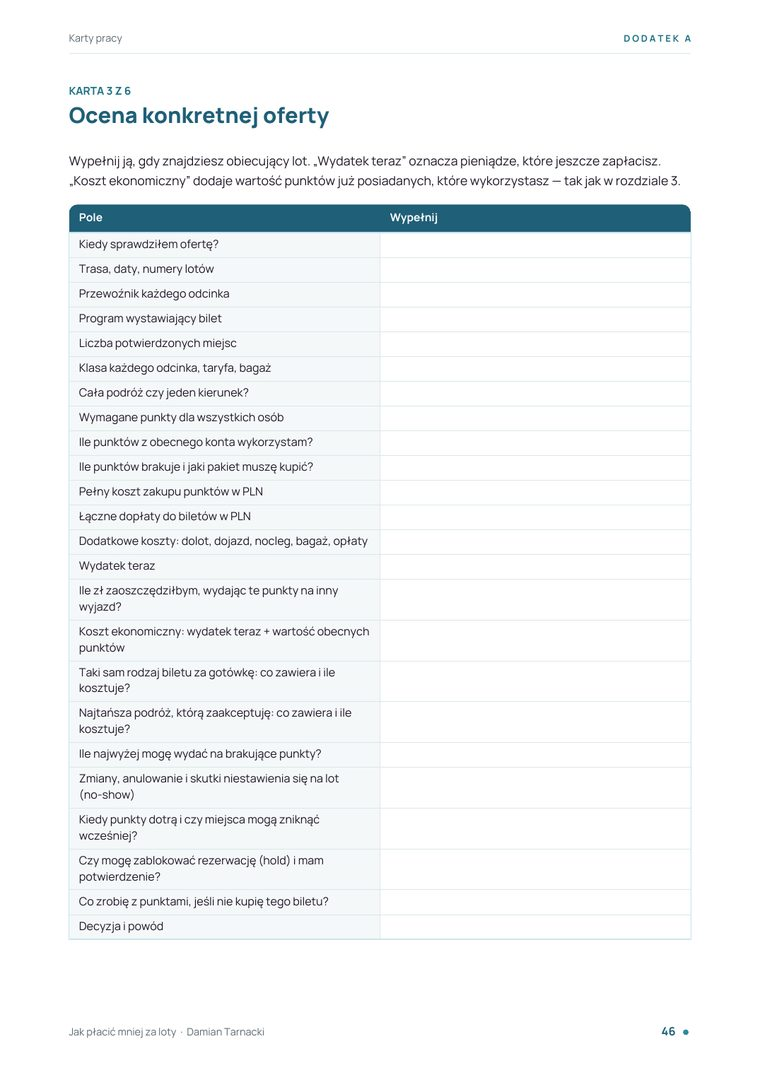
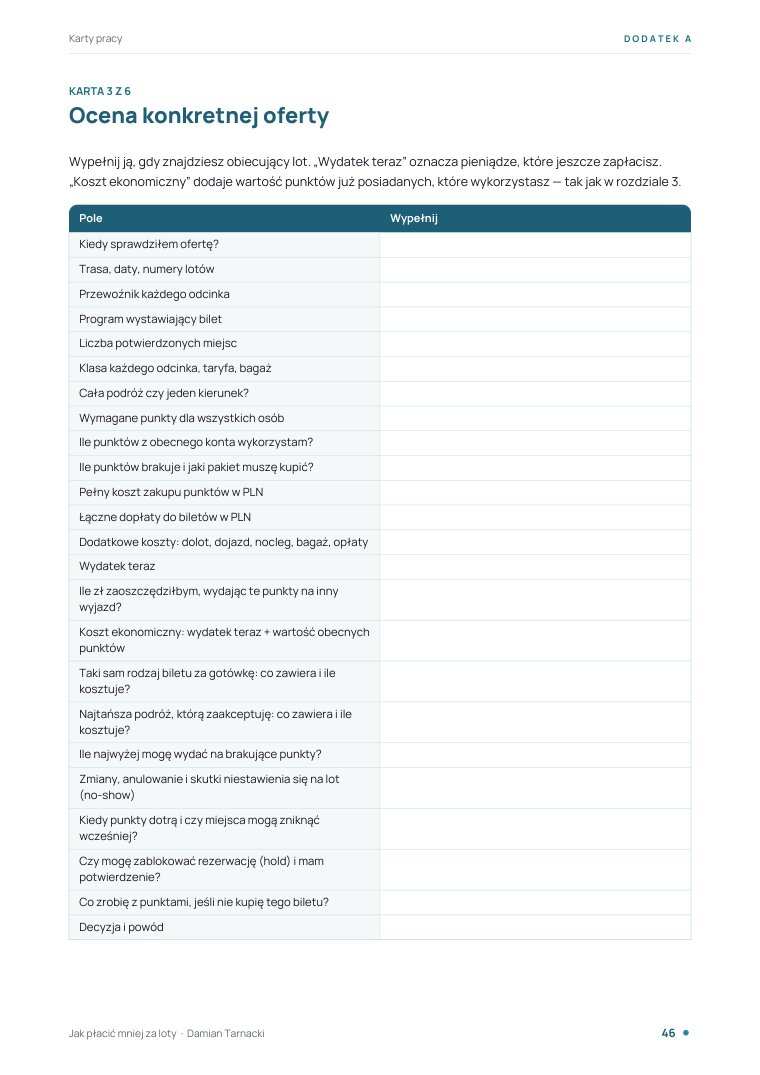
Strona ebooka: bilet z NajMILszego poniedziałku za 23 000 mil (#3)

diff --git a/travels/tansze-loty/index.html b/travels/tansze-loty/index.html
@@ -259,12 +259,14 @@ footer p{margin:0}
       <div>
         <span class="eyebrow">Prawdziwy przykład z rozdziału 3</span>
         <h2 style="margin-top:14px">Bilet za mile nie jest za darmo</h2>
-        <p>Przy bilecie za mile zwykle zostaje coś do zapłaty. W ebooku rozpisuję prawdziwe potwierdzenie biletu LOT Warszawa–San Francisco–Warszawa: każdy kod opłaty po polsku, z odnośnikiem do źródła.</p>
+        <p>Przy bilecie za mile zwykle zostaje coś do zapłaty. W ebooku rozpisuję prawdziwe potwierdzenie biletu LOT Warszawa–San Francisco–Warszawa, który kupiłem w promocji NajMILszy poniedziałek za 23 000 mil w obie strony: każdy kod opłaty po polsku, z odnośnikiem do źródła.</p>
+        <p>Takie promocje wymagają elastyczności. Okienka sprzedaży i terminy lotów bywają krótkie, a miejsc jest niewiele.</p>
         <p>Dzięki temu zanim zaczniesz zbierać, wiesz, ile naprawdę wydasz i czy dopłata za wygodniejszy fotel jest dla Ciebie warta swojej ceny.</p>
       </div>
       <div class="receipt" role="group" aria-label="Rozbicie dopłaty do biletu za mile">
         <h3>Potwierdzenie biletu · WAW–SFO–WAW</h3>
         <dl>
+          <dt>Mile (NajMILszy poniedziałek)</dt><dd>23 000 mil</dd>
           <dt>Taryfa (bilet za mile)</dt><dd>0,00 USD</dd>
           <dt>Podatki i opłaty lotniskowe (8 pozycji)</dt><dd>354,35 zł</dd>
           <dt>YQ, dopłata przewoźnika</dt><dd>450,44 zł</dd>
@@ -386,7 +388,7 @@ footer p{margin:0}
       <span class="eyebrow" style="color:var(--aqua)">Lista przed premierą</span>
       <h2 style="margin-top:14px">Przeczytaj rozdział 3, zanim ebook trafi do sprzedaży</h2>
       <ul class="perks">
-        <li><span><b>Rozdział 3 za darmo.</b> Prawdziwy bilet WAW–SFO–WAW za mile rozpisany na każdą opłatę.</span></li>
+        <li><span><b>Rozdział 3 za darmo.</b> Prawdziwy bilet WAW–SFO–WAW za 23 000 mil rozpisany na każdą opłatę.</span></li>
         <li><span><b>Wpływ na ebooka.</b> Napisz mi, co jest jasne, a co nie. Twoja opinia trafi do wersji na premierę.</span></li>
         <li><span><b>Niższa cena na start.</b> Po premierze osoby z listy kupią ebooka taniej przez kilka dni.</span></li>
       </ul>
